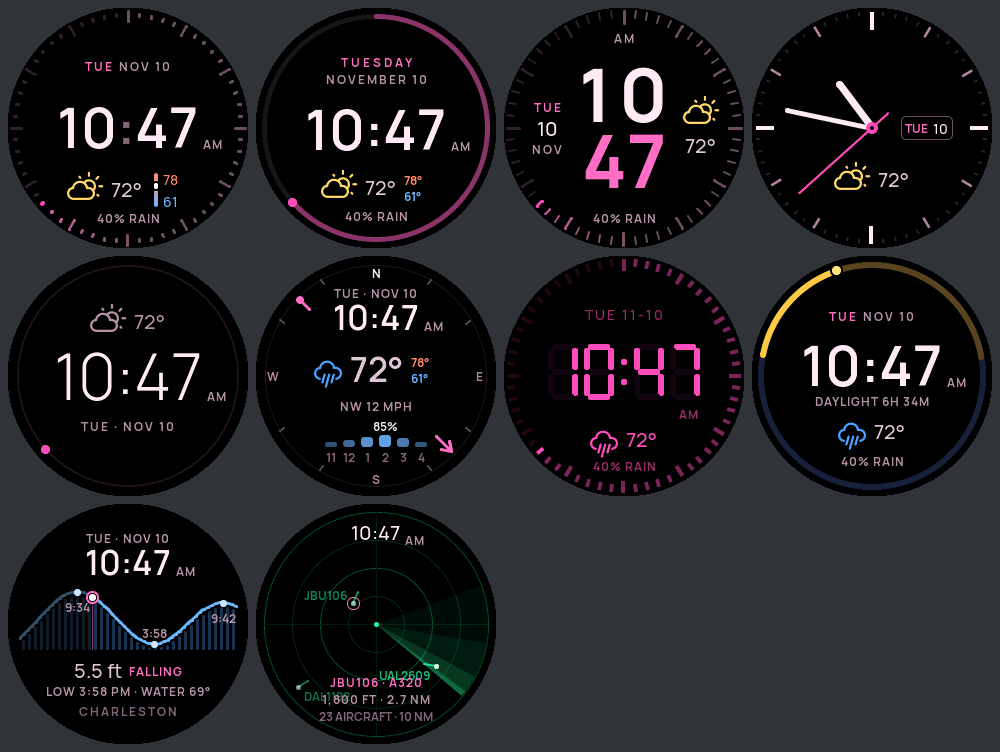
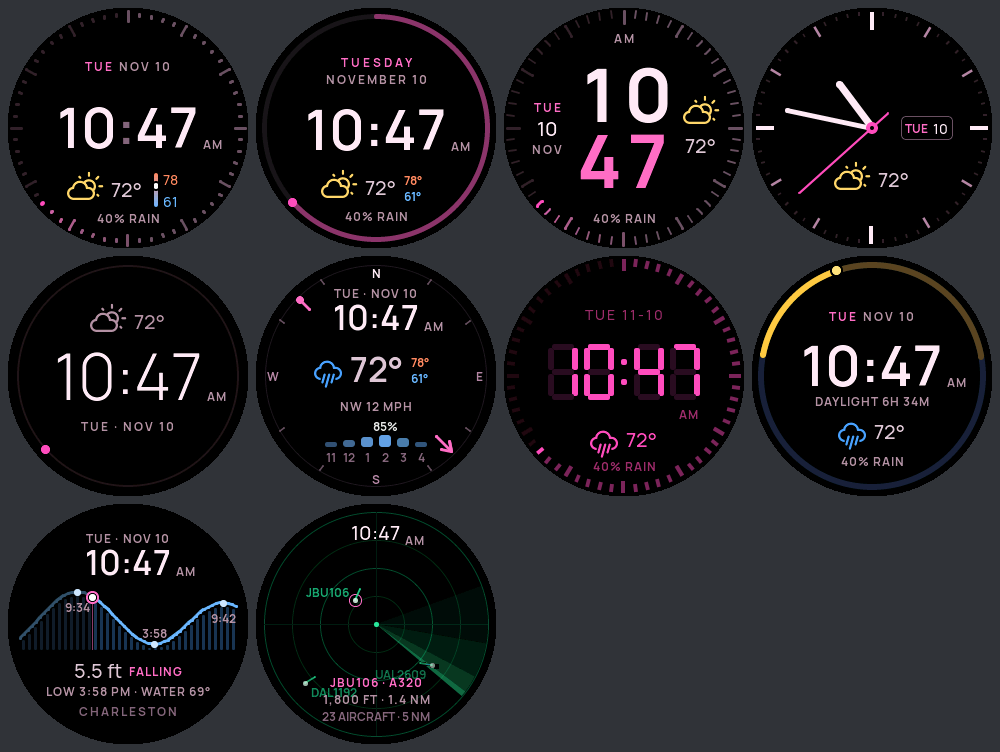
Radar: 5 NM scope; update docs and face previews

diff --git a/docs/tools/sim/sim.cpp b/docs/tools/sim/sim.cpp
@@ -51,10 +51,10 @@ static void weather(bool rainy) {
   ui_set_tide(tt, th, hi, 8, 'F', nullptr);
   // A handful of aircraft around home, nearest first (NM east / north, knots, degrees, ft).
   static const struct { float x, y, gs, trk; int alt; const char *id, *type; } P[] = {
-      {-2.1f, 1.6f, 160, 25, 1800, "JBU106", "A320"},   {5.8f, -3.9f, 244, 282, 4950, "UAL2609", "B39M"},
-      {-7.5f, -6.0f, 420, 60, 23000, "DAL1192", "A321"}, {9.5f, 8.0f, 300, 200, 11000, "AAL871", "B738"},
-      {-11.0f, 9.5f, 120, 90, 2500, "N512CK", "C172"},   {3.0f, 15.5f, 450, 170, 35000, "SWA221", "B737"},
-      {14.0f, -10.5f, 380, 330, 18000, "FDX12", "B763"}, {-15.5f, -9.0f, 0, 0, 0, "RCH431", "C17"}};
+      {-1.05f, 0.8f, 160, 25, 1800, "JBU106", "A320"},   {2.9f, -1.95f, 244, 282, 4950, "UAL2609", "B39M"},
+      {-3.75f, -3.0f, 420, 60, 23000, "DAL1192", "A321"}, {4.75f, 4.0f, 300, 200, 11000, "AAL871", "B738"},
+      {-5.5f, 4.75f, 120, 90, 2500, "N512CK", "C172"},   {1.5f, 7.75f, 450, 170, 35000, "SWA221", "B737"},
+      {7.0f, -5.25f, 380, 330, 18000, "FDX12", "B763"}, {-7.75f, -4.5f, 0, 0, 0, "RCH431", "C17"}};
   static Aircraft ac[8];
   for (int k = 0; k < 8; k++) {
     ac[k] = Aircraft();

diff --git a/src/tuning.h b/src/tuning.h
@@ -36,7 +36,7 @@ static constexpr uint32_t WATER_REFRESH_MS = 30UL * 60 * 1000;     // water temp
 static constexpr float TIDE_MAX_STATION_KM = 60;                   // nearest station farther than this: "no tides here"
 
 // ---- Radar (src/data/aircraft.cpp) ------------------------------------------------------------------------
-static constexpr int RADAR_NM = 10;                            // query radius and the scope's outer ring, nautical miles
+static constexpr int RADAR_NM = 5;                             // query radius and the scope's outer ring, nautical miles
 static constexpr uint32_t RADAR_POLL_MS = 10UL * 1000;         // adsb.fi allows 1 request/s; the face dead-reckons between
 static constexpr uint32_t RADAR_BACKOFF_MS = 60UL * 1000;      // after an HTTP error (4xx responses count toward an IP ban)
 static constexpr uint32_t RADAR_STALE_MS = 2UL * 60 * 1000;    // fetches failing this long -> "NO RADAR DATA"

diff --git a/docs/FACES.md b/docs/FACES.md
@@ -65,7 +65,7 @@ Each face is one file, `src/ui/faces/face_<name>.cpp`, that defines a `FaceDef` 
 **Tide** (`face_tide.cpp`; data in [DATA.md](DATA.md#tides)): no seconds ring, so the chart is 216 px wide. A half-cosine runs between turns from −6 h to +12 h with fill columns; "now" is a ringed marker and a thin vertical line. Below the chart: height and trend, `LOW 3:58 PM · WATER 69°`, and the short station name (text before ` (` or `,`, uppercased).
 
 **Radar** (`face_radar.cpp`; data in [DATA.md](DATA.md#radar)):
-- **Scope:** radius 112 px = `RADAR_NM` (10 NM), four range rings, north up.
+- **Scope:** radius 112 px = `RADAR_NM` (5 NM), four range rings, north up.
 - **Sweep:** four wedge `lv_arc`s rotated by an `lv_anim` on `sweepBox`. Each arc's width is radius − 1. **Why:** at width ≥ radius, LVGL's `lv_draw_arc_get_area()` invalidates the whole arc box and redrew the full scope every frame.
 - **Blips:** 29 px boxes (a dot plus a 12 px, 2 px rounded track leader), so moving one invalidates little. The box is moved before the leader is updated, so the leader's redraw falls inside the box's.
 - **Motion:** blips dead-reckon every second from ground speed and track (capped at 60 s). Each blip's opacity follows how long ago the beam passed it (floor 100/255).
@@ -73,7 +73,7 @@ Each face is one file, `src/ui/faces/face_<name>.cpp`, that defines a `FaceDef` 
 - **Night:** the sweep stops and hides, and blips stay steady.
 - **Cost:** about 20k redrawn px per frame (was 50.6k).
 
-**Retro:** seven-segment digits built from boxes, with a block ring. **Analog:** hands, a date window at 3 o'clock and the weather at 6; the batons stay dim at night so the hands stay readable, and the second hand hides. **Stacked:** hours over minutes in the 74 pt font, the date on the left and the weather on the right. **Arc:** a sweeping seconds arc and a two-line full date. **Zen:** light 64 pt digits and an orbiting dot.
+**Retro:** seven-segment digits built from boxes, with a block ring. **Analog:** hands, a date window at 3 o'clock and the weather at 6; the batons stay dim at night so the hands stay readable, and the second hand hides. **Stacked:** hours over minutes in the 74 pt font with fixed-width digits so the columns line up, the date on the left and the weather on the right. **Arc:** a sweeping seconds arc and a two-line full date. **Zen:** light 64 pt digits and an orbiting dot.
 
 ## Checking a face without flashing
 

diff --git a/README.md b/README.md
@@ -8,7 +8,7 @@ A digital desk clock for an ESP32-C3 and a 240x240 round GC9A01 display, built w
 - A **seconds ring** around the rim (its style depends on the face)
 - **Weather** from [Open-Meteo](https://open-meteo.com/) (no API key): icon, temperature and the day's high/low, refreshed every 10 minutes
 - **Night mode**: everything turns dim red (or amber, or dim white) after sunset or at fixed hours
-- **Ten clock faces**: Polished (default), Arc, Stacked, Analog, Zen, Forecast, Retro LCD, Daylight, Tide (high/low tide chart from NOAA predictions for the nearest US tide station, or one you pick on the setup page) and Radar (a radar scope with the live aircraft within 10 NM of your ZIP, from [adsb.fi](https://adsb.fi) ADS-B data; polled every 10 s only while the face is showing). Tap the BOOT button to switch; themes, ring style and night colour are on the setup page
+- **Ten clock faces**: Polished (default), Arc, Stacked, Analog, Zen, Forecast, Retro LCD, Daylight, Tide (high/low tide chart from NOAA predictions for the nearest US tide station, or one you pick on the setup page) and Radar (a radar scope with the live aircraft within 5 NM of your ZIP, from [adsb.fi](https://adsb.fi) ADS-B data; polled every 10 s only while the face is showing). Tap the BOOT button to switch; themes, ring style and night colour are on the setup page
 - **No secrets in the firmware**: WiFi, timezone, time/date format, clock face, colour theme, ZIP code and units are set from your phone through a captive-portal setup page on the clock itself
 
 ## What you need
